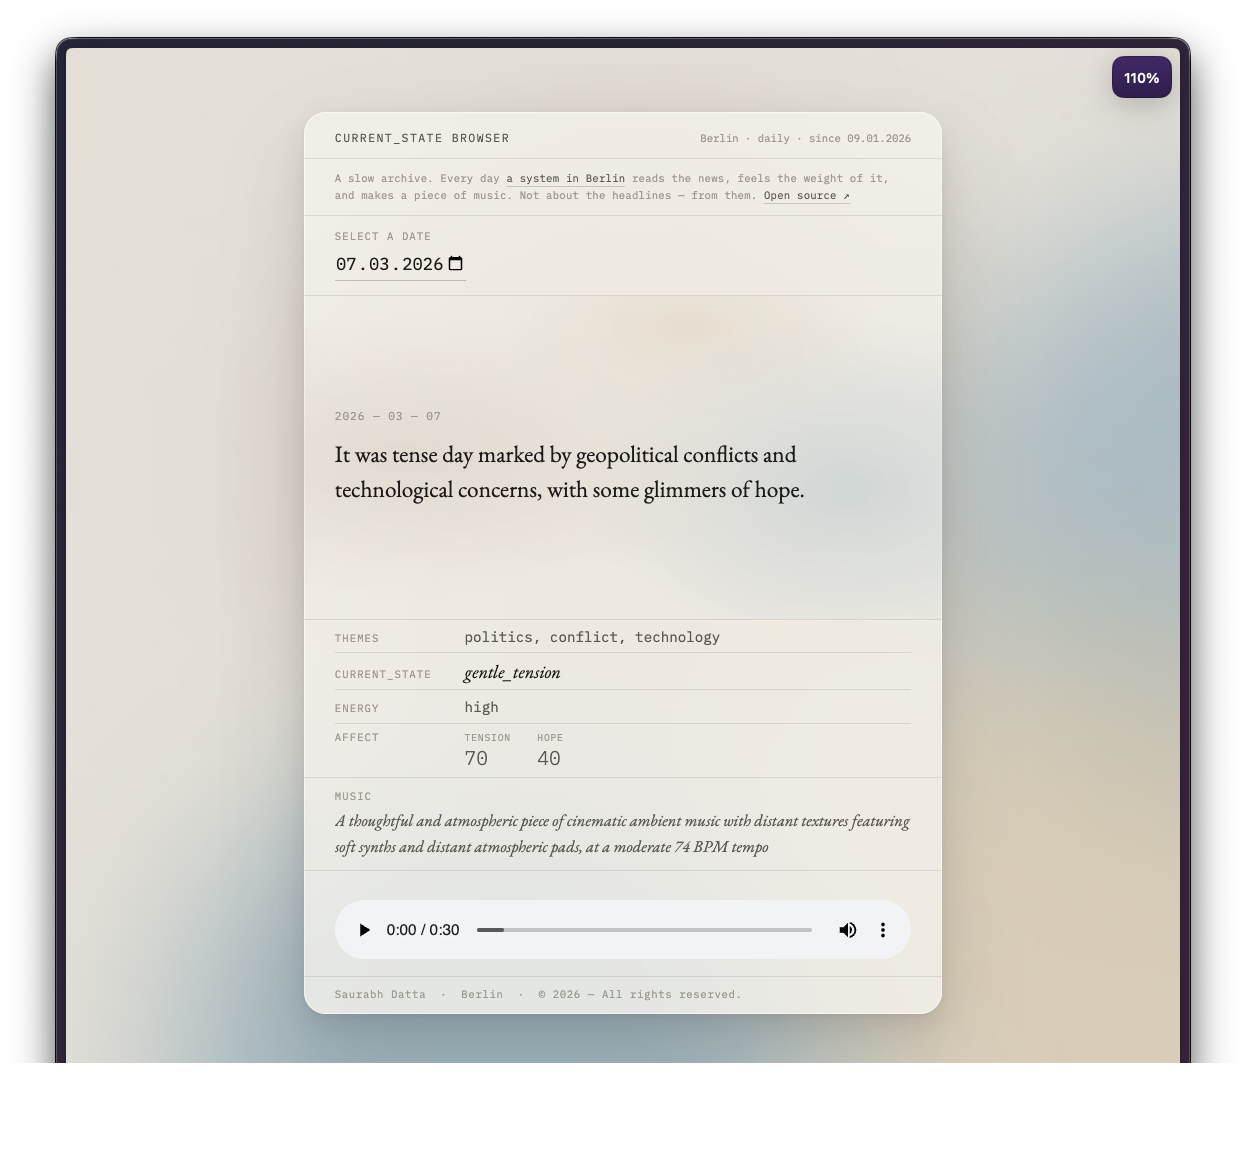
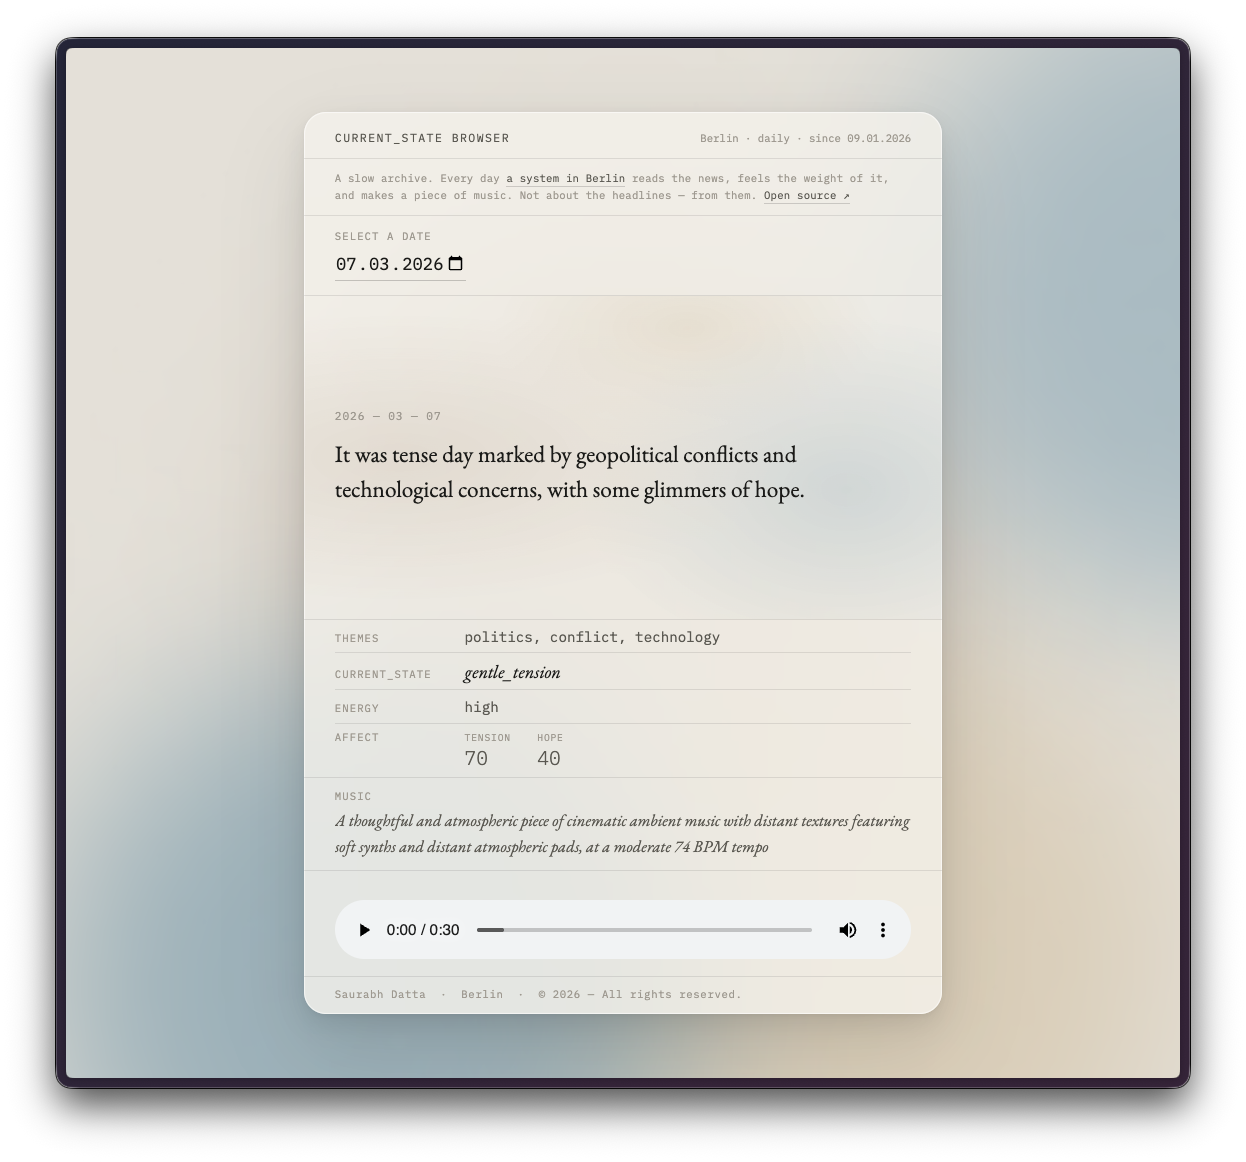
Updated README and some UI col changes

Changed region(s): [[0.0305, 0.5577, 0.9759, 0.9914], [0.7319, 0.031, 0.9454, 0.2788], [0.8844, 0.5577, 0.9454, 0.7126]]

diff --git a/static/js/app.js b/static/js/app.js
@@ -14,19 +14,59 @@ function pastTense(summary) {
 function show(id) { document.getElementById(id).classList.remove('hidden'); }
 function hide(id) { document.getElementById(id).classList.add('hidden'); }
 
-// ── Mood system ───────────────────────────────────────────────────────────────
+// ── Date-seeded colour system ─────────────────────────────────────────────────
+//
+// Each date gets 4 unique blob colours derived deterministically from the date
+// string itself. Same date → same colours, always. No predefined palette map,
+// no archetype lookup. Every day is its own atmosphere.
+//
+// Algorithm:
+//   1. Hash the date string (djb2-style) → 32-bit unsigned seed
+//   2. Feed seed into xorshift32 PRNG
+//   3. Pull 4 × (hue, saturation, lightness) from the PRNG
+//   4. Constrain to editorial range: sat 15–40%, lightness 45–70%
+//
+// Why these ranges?
+//   Saturation 15–40%: desaturated enough to feel editorial, varied enough to
+//   be perceptually distinct across days. Higher than ~45% starts to look like
+//   a consumer app rather than a journal.
+//   Lightness 45–70%: visible against the card's frosted glass, never too dark
+//   to transmit through the backdrop-filter, never washed out to near-white.
 
-const MOODS = {
-  gentle_tension:    ['#c4b5a5', '#8faab8', '#d4c4a8', '#7a9aaa'],
-  deep_sorrow:       ['#607080', '#506070', '#788898', '#506878'],
-  quiet_hope:        ['#a8bc90', '#c8c890', '#b8d0a0', '#d0c8a0'],
-  restless_energy:   ['#c8824a', '#b89060', '#d4a060', '#c07040'],
-  fragile_calm:      ['#a8c4d0', '#c0d4dc', '#b0ccd8', '#d0dce4'],
-  collective_grief:  ['#8878a8', '#787098', '#9888b0', '#706888'],
-  cautious_optimism: ['#a0b890', '#c8c8a0', '#b8c8a8', '#d4c8b0'],
-  cautious_hope:     ['#a0b890', '#c8c8a0', '#b8c8a8', '#d4c8b0'],
-  raw_uncertainty:   ['#b8a890', '#a89880', '#c4b8a0', '#b0a888'],
-};
+function _hashDate(dateStr) {
+  // djb2 hash: simple, well-distributed for short strings like YYYY-MM-DD
+  let h = 5381;
+  for (let i = 0; i < dateStr.length; i++) {
+    h = (Math.imul(h, 33) ^ dateStr.charCodeAt(i)) >>> 0;
+  }
+  return h === 0 ? 1 : h; // xorshift can't start at 0
+}
+
+function _makeRng(seed) {
+  // xorshift32 — fast, good distribution, reproducible
+  let s = seed;
+  return function () {
+    s ^= s << 13;
+    s ^= s >> 17;
+    s ^= s << 5;
+    s = s >>> 0;
+    return s / 0xFFFFFFFF;
+  };
+}
+
+function dateToColors(dateStr) {
+  const rng = _makeRng(_hashDate(dateStr));
+  const colors = [];
+  for (let i = 0; i < 4; i++) {
+    const hue = Math.floor(rng() * 360);          // full spectrum
+    const sat = Math.floor(15 + rng() * 25);      // 15–40%
+    const lit = Math.floor(45 + rng() * 25);      // 45–70%
+    colors.push(`hsl(${hue}, ${sat}%, ${lit}%)`);
+  }
+  return colors;
+}
+
+// ── Apply colours to blobs ────────────────────────────────────────────────────
 
 const blobs = [
   document.getElementById('blob-a'),
@@ -35,19 +75,26 @@ const blobs = [
   document.getElementById('blob-d'),
 ];
 
-function setMood(archetype) {
-  const key = archetype ? archetype.toLowerCase().replace(/[\s-]+/g, '_') : 'gentle_tension';
-  const p   = MOODS[key] || MOODS['gentle_tension'];
-  if (!MOODS[key]) console.warn(`[mood] Unknown archetype "${archetype}", falling back to gentle_tension`);
-  console.log(`[mood] ${key}`, p);
-  blobs.forEach((b, i) => { if (b) b.style.backgroundColor = p[i]; });
+function setMood(dateStr) {
+  // Fallback: if no date yet, use a neutral slate
+  const colors = dateStr ? dateToColors(dateStr) : [
+    'hsl(210, 18%, 55%)',
+    'hsl(30,  16%, 60%)',
+    'hsl(180, 14%, 58%)',
+    'hsl(60,  12%, 62%)',
+  ];
+
+  blobs.forEach((b, i) => { if (b) b.style.backgroundColor = colors[i]; });
+
   const r = document.documentElement;
-  r.style.setProperty('--blob-a', p[0]);
-  r.style.setProperty('--blob-b', p[1]);
-  r.style.setProperty('--blob-c', p[2]);
+  r.style.setProperty('--blob-a', colors[0]);
+  r.style.setProperty('--blob-b', colors[1]);
+  r.style.setProperty('--blob-c', colors[2]);
 }
 
 // ── Blob animation ────────────────────────────────────────────────────────────
+// Each blob drifts on an independent sine-wave path.
+// Different speed, amplitude, phase per blob — never in sync.
 
 const blobDefs = [
   { bx: 0.18, by: 0.28, ax: 0.12, ay: 0.10, sx: 0.00031, sy: 0.00023, ph: 0.00 },
@@ -67,7 +114,9 @@ function animateBlobs(t) {
   requestAnimationFrame(animateBlobs);
 }
 requestAnimationFrame(animateBlobs);
-setMood('gentle_tension');
+
+// Neutral default until first date loads
+setMood(null);
 
 // ── Visualiser ────────────────────────────────────────────────────────────────
 
@@ -100,11 +149,9 @@ const Visualiser = (() => {
 
   function draw() {
     if (!analyser || !ctx) return;
-    const bufLen = analyser.frequencyBinCount;  // 128 bins (fftSize/2)
+    const bufLen = analyser.frequencyBinCount; // 128
     const raw    = new Uint8Array(bufLen);
     const W = canvas.width, H = canvas.height;
-
-    // We draw bufLen bars across the full width
     const gap  = 1.5;
     const barW = (W - bufLen * gap) / bufLen;
 
@@ -112,28 +159,20 @@ const Visualiser = (() => {
       animId = requestAnimationFrame(loop);
       analyser.getByteFrequencyData(raw);
 
-      // ── Sausage / lens envelope ───────────────────────────────
-      // Frequency data: index 0 = bass (loud), last = treble (quiet).
-      // We rearrange into a palindrome so the loud bass sits centre,
-      // quiet treble at both edges → low–high–low envelope shape.
-      //
-      // Arrangement: [raw[half]...raw[1], raw[0], raw[1]...raw[half]]
-      // Left half descends from mid-freq to bass (getting louder).
-      // Right half mirrors: bass back up to mid-freq (getting quieter).
-      // Result: a symmetric sausage/lens that peaks in the middle.
-
+      // Sausage/lens envelope: rearrange FFT bins into a palindrome so bass
+      // (loudest, index 0) sits in the centre and treble at both edges.
       const half = Math.floor(bufLen / 2);
       const sausage = new Uint8Array(bufLen);
       for (let i = 0; i <= half; i++) {
-        sausage[half - i] = raw[i];  // left side: count down toward centre
-        sausage[half + i] = raw[i];  // right side: mirror
+        sausage[half - i] = raw[i];
+        sausage[half + i] = raw[i];
       }
 
       ctx.clearRect(0, 0, W, H);
       for (let i = 0; i < bufLen; i++) {
         const barH = (sausage[i] / 255) * H * 0.90;
         const x    = i * (barW + gap);
-        const y    = (H - barH) / 2;          // centred vertically
+        const y    = (H - barH) / 2; // centred vertically
         ctx.fillStyle = 'rgba(26,26,24,0.50)';
         ctx.fillRect(x, y, barW, barH);
       }
@@ -260,7 +299,10 @@ function renderMetadata(meta) {
     meta.prompt_natural || '';
   document.getElementById('entry-themes').textContent =
     (meta.dominant_themes || []).join(', ');
-  setMood(meta.primary_archetype);
+
+  // Colour atmosphere is driven by the date, not the archetype name.
+  // Same date always produces the same 4 colours.
+  setMood(meta.date);
 }
 
 // ── Boot ──────────────────────────────────────────────────────────────────────

diff --git a/README.md b/README.md
@@ -23,7 +23,7 @@
 
 Every day, a Raspberry Pi in Berlin wakes up at 3 AM, reads the news, runs it through an LLM pipeline that analyses the emotional weight of the day — the tension, the hope, the themes — and generates a piece of ambient music from that analysis. Not music *about* the news. Music *from* it. There's a difference.
 
-This browser is how you get to that archive. Pick a date, read what the system felt about that day, and listen to the music it made. The background of the page shifts colour based on the emotional archetype of whatever day you're looking at. It's subtle — the whole thing is designed to be slow and quiet, like the music itself.
+This browser is how you get to that archive. Pick a date, read what the system felt about that day, and listen to the music it made. The background of the page shifts to a colour atmosphere unique to that date. It's subtle — the whole thing is designed to be slow and quiet, like the music itself.
 
 Think of it less like a music player and more like a **temporal journal that happens to have audio**. The date picker is the main navigation. You're navigating through time, not a playlist.
 
@@ -77,7 +77,7 @@ current_state_browser/
 ├── static/
 │   ├── index.html             # Single-page UI — frosted card, blob background
 │   ├── css/style.css          # Design system — tokens, card, blobs, mood zones
-│   └── js/app.js              # API calls, mood system, blob animation, waveform visualiser
+│   └── js/app.js              # API calls, date-seeded colours, blob animation, waveform
 │
 ├── context/                   # Internal session docs (not shipped, not relevant to users)
 │   ├── session_01_context.md
@@ -129,7 +129,7 @@ The server exposes a dead-simple read-only JSON API. No auth, no rate limiting, 
 
 > **`tension_level` and `hope_factor`** are floats 0–1 from the LLM pipeline. The UI multiplies them by 100 for display. They don't sum to 1 — they're independent scores.
 
-> **`primary_archetype`** drives the entire visual mood system. See [The Mood System](#the-mood-system) below.
+> **`primary_archetype`** is displayed as a label in the UI but does **not** drive the visual colour system. See [The Mood System](#the-mood-system) below.
 
 ---
 
@@ -283,20 +283,22 @@ The refresh token lives in Render env vars. The access token lives in `AppCache.
 
 ## The mood system
 
-This is the bit that makes the UI feel alive. Every date has a `primary_archetype` in its metadata — a string like `"gentle_tension"` or `"restless_energy"` assigned by the LLM pipeline on the Pi. When you pick a date, that archetype drives the entire visual atmosphere of the page.
+This is the bit that makes the UI feel alive. When you pick a date, the background shifts to a colour atmosphere unique to that date — the blobs behind the frosted card change colour, the frosted glass transmits them, the summary text zone has a subtle inner echo.
 
-### Data flow
+### How colours are generated
+
+There's no predefined palette map and no archetype lookup. The **date string itself is the seed**. Hash it, feed it into a PRNG, pull 4 HSL colours in an editorial range. Same date always looks the same. Every date looks different.
 
 ```mermaid
 flowchart TD
     A["loadEntry(date)"]
     B["GET /api/entry/{date}"]
-    C["meta.primary_archetype<br/>e.g. 'gentle_tension'"]
-    D["setMood(archetype)"]
-    E["MOODS lookup<br/>→ 4 hex colours"]
+    C["meta.date<br/>e.g. '2026-03-06'"]
+    D["setMood(date)"]
+    E["dateToColors(date)<br/>djb2 hash → xorshift32 PRNG<br/>→ 4 × hsl(rnd, 15–40%, 45–70%)"]
     F["blob-a/b/c/d<br/>backgroundColor<br/>↳ CSS transition 2.6s"]
     G["--blob-a/b/c<br/>CSS custom props<br/>↳ mood-banner inner echo"]
-    H["Background atmosphere shifts<br/>(slow, atmospheric)"]
+    H["Background atmosphere<br/>unique to this date"]
     I["Summary text zone<br/>has colour echo"]
 
     A --> B --> C --> D --> E
@@ -304,45 +306,37 @@ flowchart TD
     E --> G --> I
 ```
 
-### Three layers of visual atmosphere
+The algorithm in `app.js`:
 
-The mood doesn't just change the background. It operates on three nested layers:
+```js
+function dateToColors(dateStr) {
+  const rng = _makeRng(_hashDate(dateStr)); // xorshift32 seeded by djb2 hash
+  return Array.from({ length: 4 }, () => {
+    const hue = Math.floor(rng() * 360);      // full spectrum
+    const sat = Math.floor(15 + rng() * 25);  // 15–40% — editorial, not garish
+    const lit = Math.floor(45 + rng() * 25);  // 45–70% — visible through frosted glass
+    return `hsl(${hue}, ${sat}%, ${lit}%)`;
+  });
+}
+```
+
+Why deterministic-random rather than archetype-mapped? The source project assigns archetypes from a fixed list of 6 — but mapping 6 archetypes to 6 palettes means the background just repeats. Every day is its own day. The colour should be too.
+
+### Three layers of visual atmosphere
 
 | Layer | Mechanism | What you see |
 |-------|-----------|-------------|
 | **Blob background** | 4 `position: fixed` divs, `filter: blur(80px)`, JS RAF sine-wave motion | Large drifting colour fields behind the frosted card |
 | **CSS colour transition** | `transition: background-color 2.6s ease` on each blob div | Slow, atmospheric palette shift as you move between dates |
-| **Inner echo** | `.mood-banner::before` radial-gradient reading `--blob-a/b/c` CSS vars | The same colours concentrate softly behind the summary text inside the card |
+| **Inner echo** | `.mood-banner::before` radial-gradient reading `--blob-a/b/c` CSS vars | The same colours concentrate softly behind the summary text |
 
-The card itself uses `backdrop-filter: blur(32px)` — this is the key mechanism. The card has no solid background colour; it's frosted glass that transmits whatever colour is behind it. The blobs *are* the card's background.
+The card uses `backdrop-filter: blur(32px)` — frosted glass that transmits whatever colour is behind it. The blobs *are* the card's background.
 
-`@keyframes card-breathe` pulses the blur between `32px` and `22px` on an 8-second loop. When blur is lower, more blob colour bleeds through. When higher, the card looks more frosted. It gives the whole thing a slow respiratory quality — appropriate for something that's supposed to feel like a living archive.
-
-### Archetypes and palettes
-
-Each archetype maps to 4 blob colours. The design rules for the palettes:
-- **Max saturation ~45%** — keeps it editorial, not garish
-- **Hue families are meaningfully separated** — adjacent archetypes shouldn't look similar
-- **Warm/cool contrast within a palette** — internal emotional tension
-
-| Archetype | Hue family | Emotional register |
-|-----------|-----------|-------------------|
-| `gentle_tension` | warm stone + cool slate | Two forces pulling against each other |
-| `deep_sorrow` | deep blue-grey | Heavy, cold, still water |
-| `quiet_hope` | soft sage + pale gold | Growth without proclamation |
-| `restless_energy` | amber + terracotta | Heat, friction, movement |
-| `fragile_calm` | pale ice blue | Surface stillness, barely holding |
-| `collective_grief` | muted violet + slate | Shared weight, mourning |
-| `cautious_optimism` | warm sage + cream | Hope tempered by caution |
-| `cautious_hope` | same as above | API alias — treated identically |
-| `raw_uncertainty` | warm taupe + grey | Undefined, unresolved |
-
-> [!NOTE]
-> **Unknown archetype handling:** `setMood()` normalises the key (lowercase, spaces → underscores), logs a `console.warn`, and falls back to `gentle_tension`. If you see a `[mood] Unknown archetype` warning in the browser console, it means the Pi pipeline produced a new archetype not yet in the map. Add it to `MOODS` in `app.js` — see the palette design rules above for guidance.
+`@keyframes card-breathe` pulses the blur between `32px` and `22px` on an 8-second loop — when blur is lower, more colour bleeds through. Slow, respiratory.
 
 ### Blob animation
 
-Each of the four blobs drifts on an independent sine-wave path. They never sync up — the parameters (base position, amplitude, speed, phase) are deliberately different for each one:
+Each of the four blobs drifts on an independent sine-wave path, never syncing up:
 
 ```js
 const blobDefs = [
@@ -352,7 +346,7 @@ const blobDefs = [
 ];
 ```
 
-`bx/by` = base position (0–1 fraction of viewport), `ax/ay` = drift amplitude, `sx/sy` = speed, `ph` = phase offset. The result is four blobs that feel organic rather than mechanical — they'll never align perfectly, always shifting past each other.
+`bx/by` = base position (0–1 of viewport), `ax/ay` = drift amplitude, `sx/sy` = speed, `ph` = phase offset.
 
 ---
 
@@ -360,16 +354,16 @@ const blobDefs = [
 
 When audio plays, a canvas visualiser appears above the player.
 
-**Sausage / lens envelope shape.** Raw FFT data from the Web Audio API goes from loud (bass, index 0) to quiet (treble, last index). If you draw it left-to-right, you get a shape that's tall on the left and tapers to nothing on the right — ugly and unbalanced. Instead, we rearrange the bins into a palindrome:
+**Sausage / lens envelope shape.** Raw FFT data goes from loud (bass, index 0) to quiet (treble, last index). Drawn left-to-right that's tall-left, tapering-right — unbalanced. Instead, bins are rearranged into a palindrome:
 
 ```
 raw:     [bass ..... treble]
 sausage: [treble ... bass ... treble]
 ```
 
-Left half descends toward the centre (getting louder), right half mirrors it. The result is a symmetric lens shape that peaks in the middle — quiet at the edges, loud at the centre. Much more pleasing for ambient music, which tends to have strong bass and soft highs.
+Left half gets louder toward the centre, right half mirrors it. Symmetric lens that peaks in the middle — appropriate for ambient music with strong bass and soft highs.
 
-**Vertically centred bars.** Each bar is drawn from `(H - barH) / 2` — centred on the canvas midline, growing up and down equally. This keeps the visualiser looking balanced regardless of the audio amplitude.
+**Vertically centred bars.** Each bar is drawn from `(H - barH) / 2` — centred on the canvas midline, growing up and down equally.
 
 ---
 
@@ -470,9 +464,9 @@ Set these in the dashboard under **Environment**:
 
 The date is probably incomplete — the Pi uploaded the zip but not the wav, or vice versa. Only dates with both files are served. Check `/api/status` to see how many dates are loaded, and look at Render logs for any `Skipping incomplete date:` warnings during startup.
 
-### Background colours look the same across archetypes
+### Background looks the same for every date
 
-The MOODS map in `app.js` has an entry for this archetype that's too similar to adjacent ones, or the archetype returned by the API isn't in the map and it's falling back to `gentle_tension`. Open browser devtools and look for `[mood]` log lines — they'll tell you exactly what archetype was received and what colours were applied.
+The date-seeded colour system derives colours from the date string — if all dates look identical, check that `meta.date` is being passed correctly to `setMood()` in `renderMetadata()`. Open devtools: `dateToColors('2026-03-06')` and `dateToColors('2026-03-07')` should return visibly different sets.
 
 ### Server startup takes longer than expected
 
